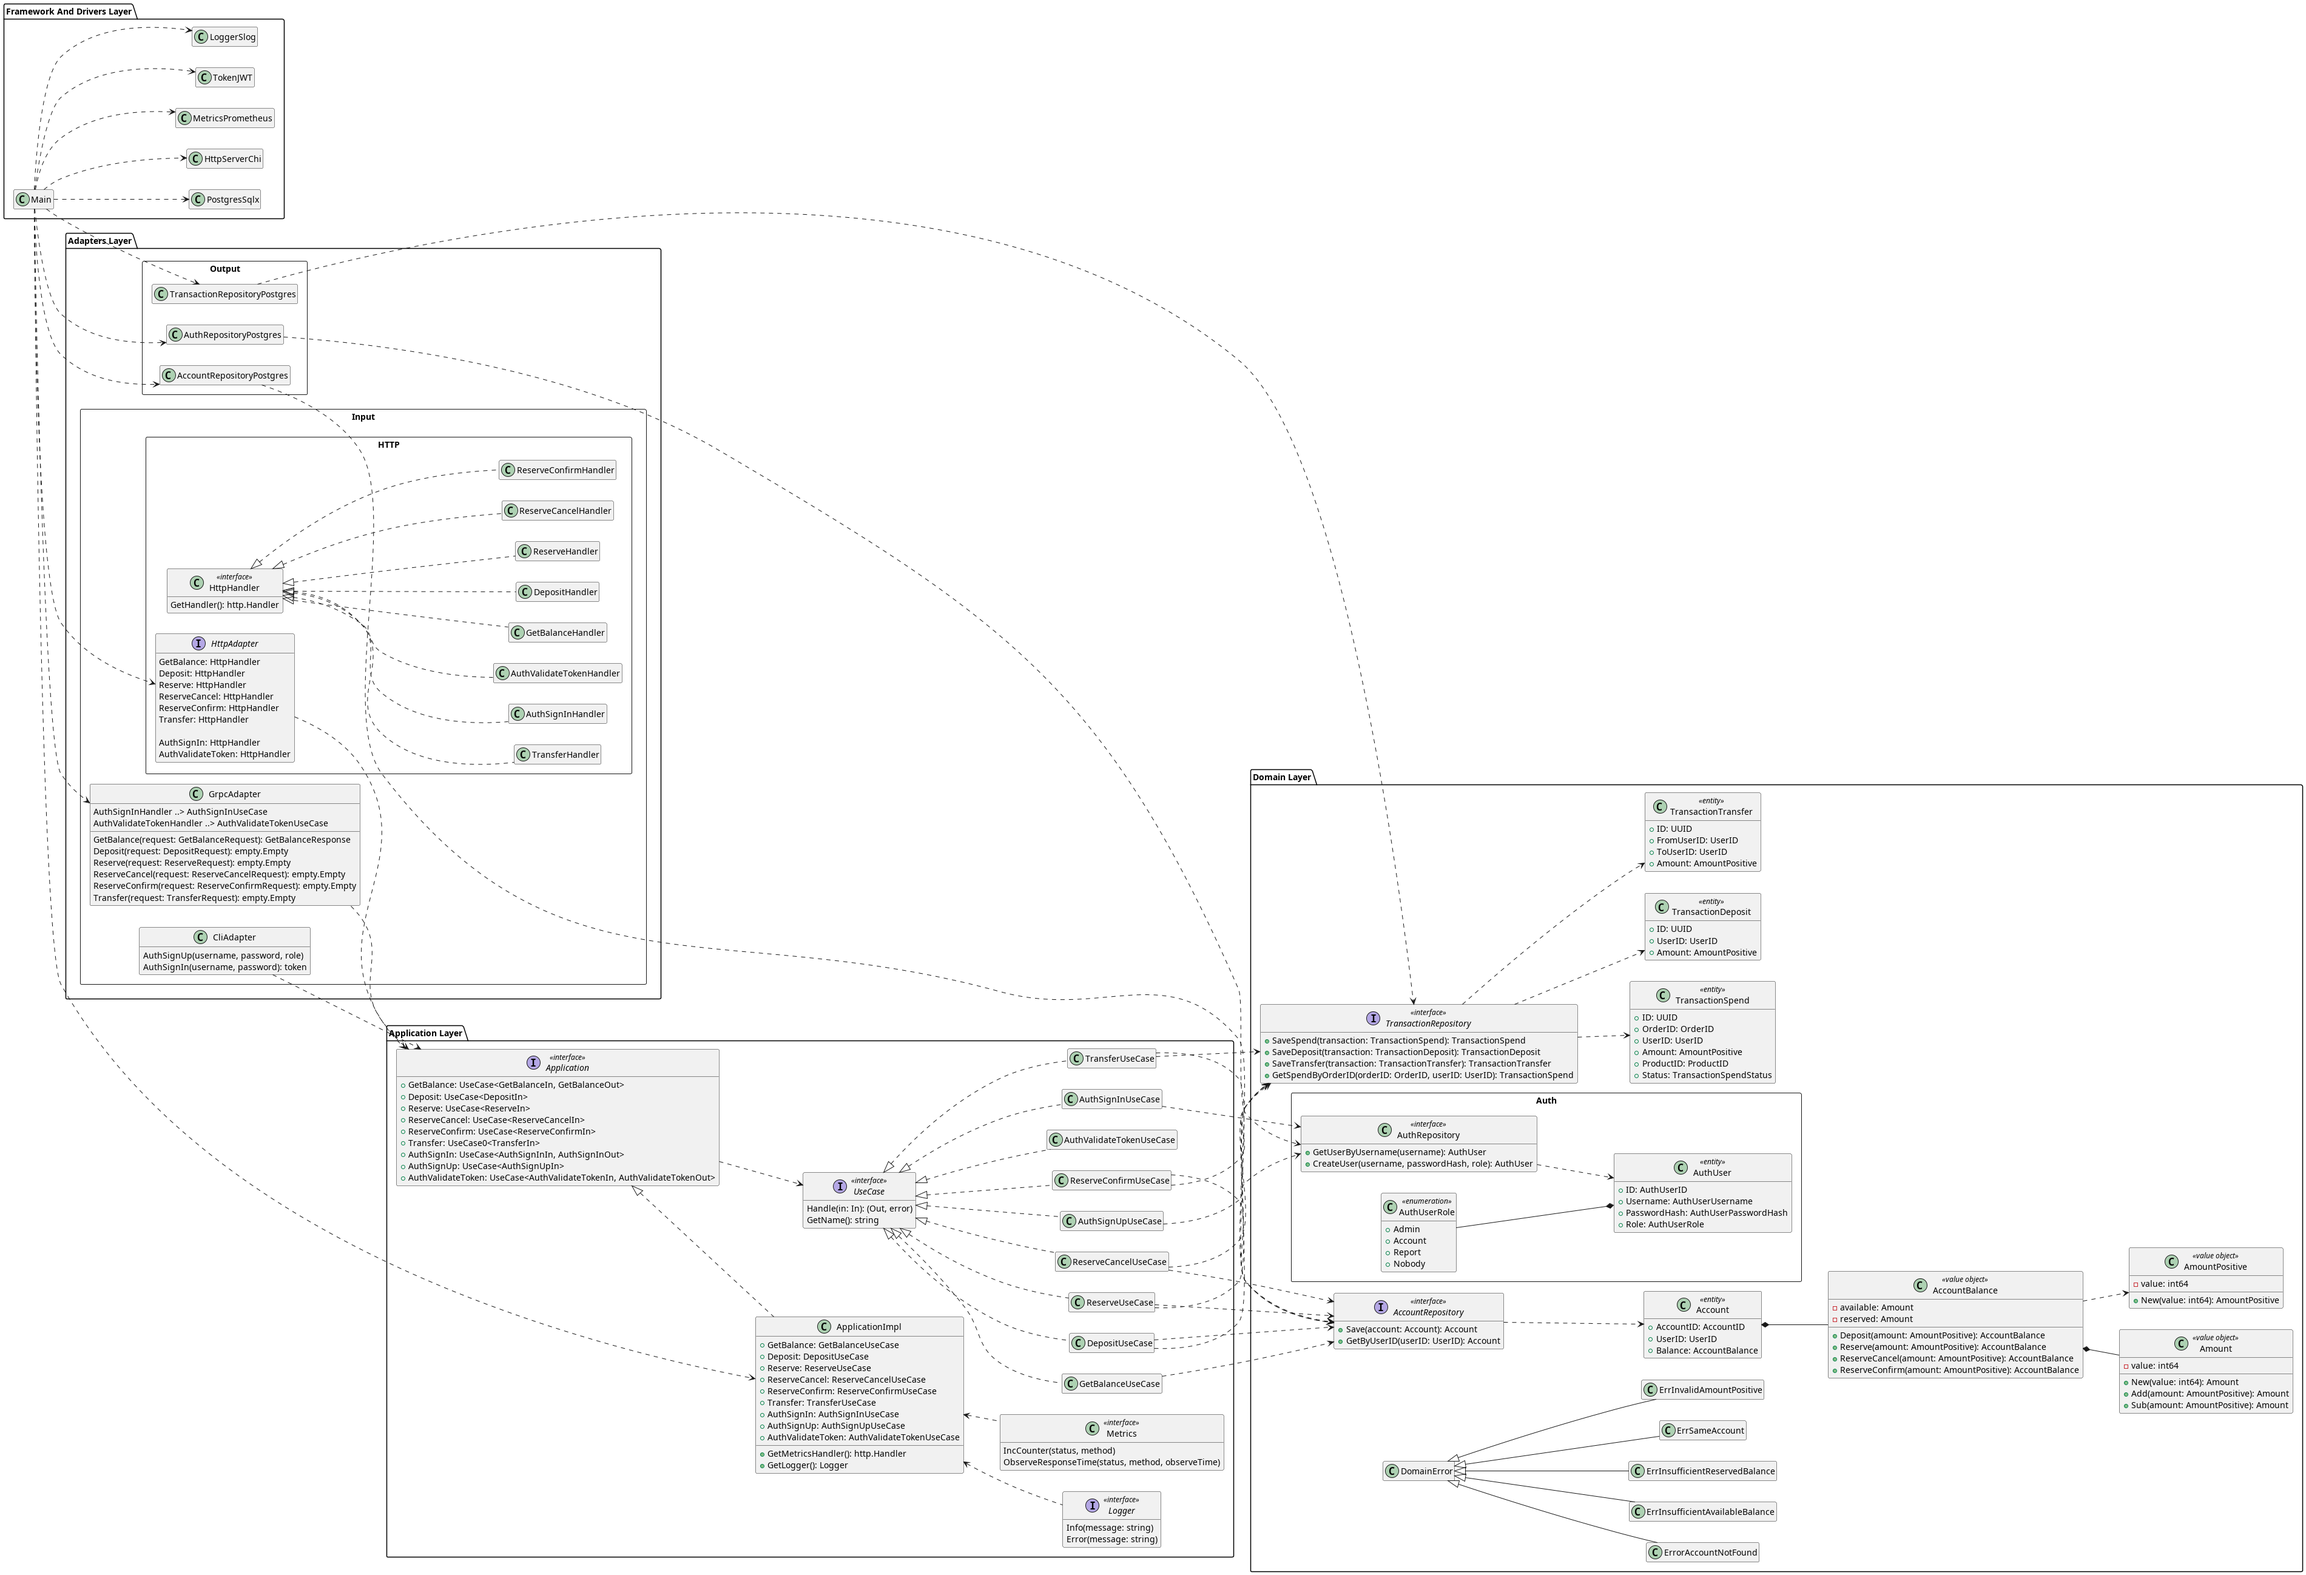
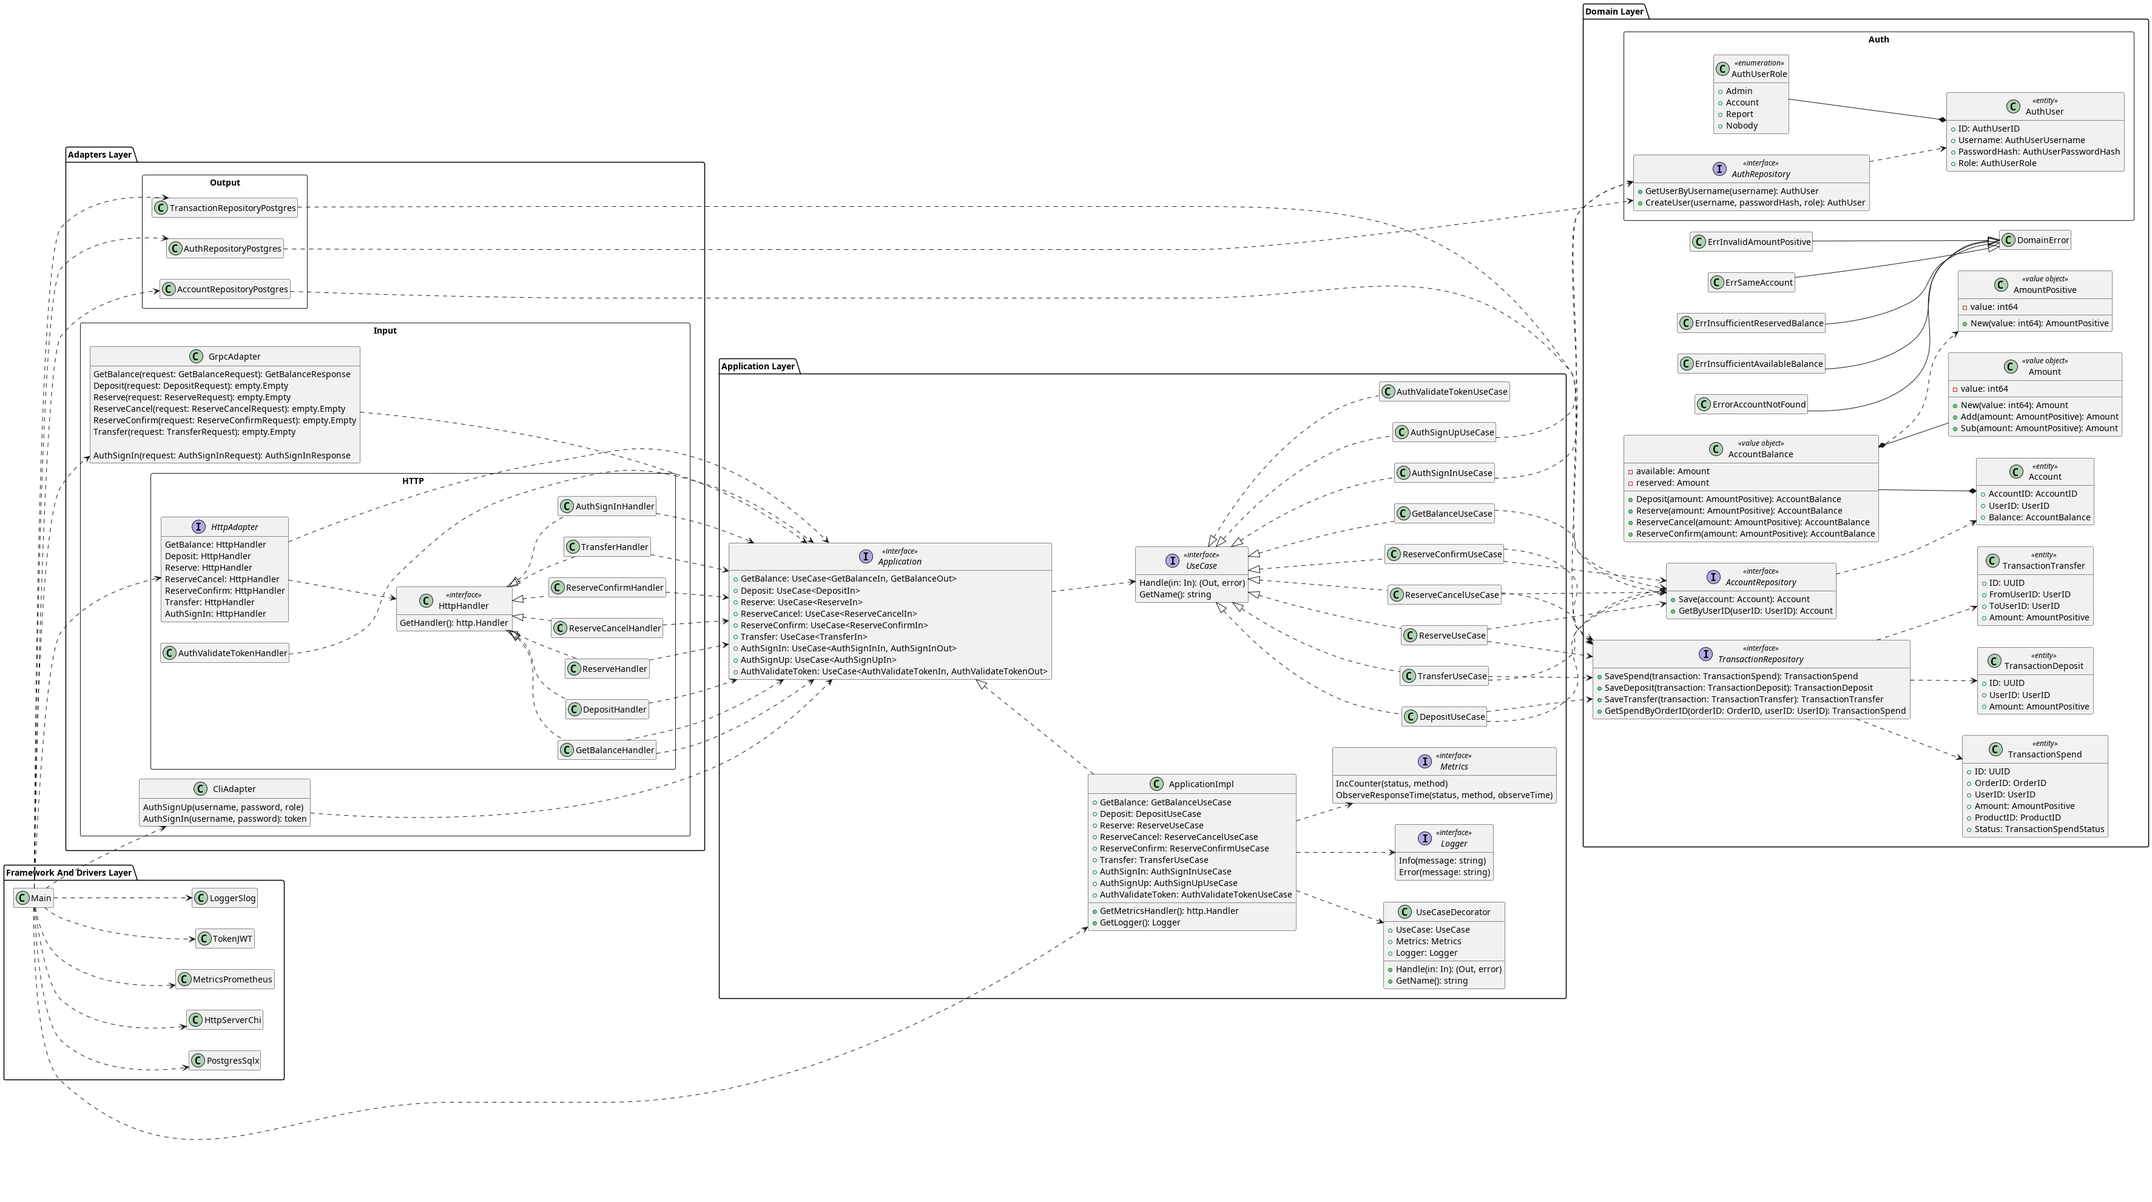
docs: обновить README, добавить описание слоистой гексагональной архитектуры и улучшить диаграммы

diff --git a/README.md b/README.md
@@ -17,9 +17,8 @@ https://github.com/avito-tech/internship_backend_2022
 - интеграционные тесты через dockertest
 - утилита для бенчмарка
 
-минусы
-- openapi спецификация генерируется при помощи swaggo из аннотаций. Лучше было бы 
-- Сущности авторизации хранятся в доменной логике, лучше было бы вынести их в слой application
+Что лучше было бы сделать иначе:
+- openapi спецификация генерируется при помощи swaggo из аннотаций. Лучше было бы генерировать сервер и клиент из спецификации, а не наоборот.
 
 ## Архитектура
 
@@ -29,12 +28,151 @@ https://github.com/avito-tech/internship_backend_2022
 
 Более детальная диаграмма архитектуры: [doc/diagram.png](doc/diagram.png)
 
+Использована слоистая гексагональная архитектура из четырех слоев:
+
+- доменная логика
+- приложение
+- адаптеры
+- инфраструктура
+
+### Доменная логика
+
+* [/internal/balance/domain](/internal/balance/domain)
+
+Ядром является доменная логика, выполненная в технике DDD. Для надежности все доменные типы создаются при помощи конструкторов, которые проверяют соотвествие значений бизнес-правилам. Например: баланс пользователя не может быть отрицательным, и для него введен отдельный тип `Amount`, значение которого является приватным и доступно для инициации лишь в рамках доменной логики, а его изменение только через методы, проверяющие валидность диапазона значений [0..math.MaxInt64]. 
+
+```go
+// Неотрициательное кол-во копеек
+type Amount struct {
+	amount int64
+}
+
+func (a Amount) Add(b AmountPositive) (Amount, error) {
+    // ...
+}
+
+func (a Amount) Sub(b AmountPositive) (Amount, error) {
+    // ...
+}
+```
+
+Баланс пользователя представлен value-object типом `AccountBalance`, для которого также реализован ряд методов, реализующих перемещение средств между доступным и резервированным балансами, и возвращающих доменную ошибку при попытке некорректной операции.
+
+```go
+type AccountBalance struct {
+    available amount.Amount
+	reserved  amount.Amount
+}
+
+func (ac AccountBalance) Deposit(a amount.AmountPositive) (AccountBalance, error) {
+    // ...
+}
+func (ac AccountBalance) Reserve(a amount.AmountPositive) (AccountBalance, error) {
+    // ...
+}
+func (ac AccountBalance) Withdraw(a amount.AmountPositive) (AccountBalance, error) {
+    // ...
+}
+// ...
+```
+
+Баланс пользователя является частью сущности Account, для которой описаны методы, изменяющие её состояние через pointer receiver, и соответствующие требуемым юзкейсам: Deposit, Reserve, ReserveCancel, ReserveConfirm, Transfer.
+
+Транзакции представлены тремя сущностями: TransactionDeposit (зачисление на счет), TransactionSpend (оплата продукта) и TransactionTransfer (перевод между пользователями). Статус операции оплаты продукта определяется наличием транзакции Spend со статусом, отличным от Canceled: Reserved, если деньги зарезервированы; Confirmed, если продукт оплачен. 
+
+В доменной зоне также описаны интерфейсы репозиториев для каждой из сущностей: Account и Transactions.
+
+### Приложение
+
+* [/internal/balance/app](/internal/balance/app)
+* [/internal/balance/app_impl](/internal/balance/app_impl)
+
+В этом слое реализованы сценарии использования (use-cases). Сценарий должен реализовывать один из двух интерфейсов:
+
+```go
+// сценарий не возвращает результат, например Deposit
+type UseCase0[In any] interface {
+	Handle(ctx context.Context, in In) error
+    // имя сценария используется для логирования, метрик и для разграничения прав 
+    // доступа пользователей микросервиса
+	GetName() string
+}
+
+// сценарий возвращает результат, например GetBalance
+type UseCase1[In any, Out any] interface {
+	Handle(ctx context.Context, in In) (Out, error)
+	GetName() string
+}
+```
+
+Сценарий характеризуется набором зависимостей, которые передаются конструктору `New`, типом запроса `In` и опциональным типом результата `Out`. 
+
+Так как сценарию может потребоваться изменение как баланса пользователя, так и списка его транзакций, необходимо предусмотреть атомарность изменения в двух репозиториях. Для этого применятся библиотека [go-transaction-manager](github.com/avito-tech/go-transaction-manager), которая позволяет сделать это при помощи высокоуровненего стабильного API, сохраняющего слой приложения от низкоуровневых деталей реализации репозиториев. 
+
+Для этого сценарию, использующему репозиторий передается в качестве зависимостей объект типа `trm.Manager`
+
+```go
+// Manager manages a transaction from Begin to Commit or Rollback.
+type Manager interface {
+	// Do processes a transaction inside a closure.
+	Do(context.Context, func(ctx context.Context) error) error
+	// DoWithSettings processes a transaction inside a closure with custom trm.Settings.
+	DoWithSettings(context.Context, Settings, func(ctx context.Context) error) error
+}
+```
+
+Это также позволит использвать данный сценарий в других сценариях в рамках одной транзакции ([Статья на хабре](https://habr.com/ru/companies/avito/articles/727168/)), если это понадобится.
+
+#### Декораторы use-case
+
+То, что все сценарии использования реализуют единый интрефейс, позволяет добавить в архитектуру слоя приложения такую функцию, как декораторы, которые по функциональности представляют собой аналог middleware в других областях.
+
+Например, декоратор логирования:
+
+```go
+type Decorator0Logging[T any] struct {
+	base   UseCase0Handler[T]
+	logger logging.Logger
+}
+
+func (d *Decorator0Logging[T]) Handle(ctx context.Context, in T) (err error) {
+	defer func() {
+		if err != nil {
+			d.logger.Error(d.base.GetName(), "use_case", d.base.GetName(), "error", err)
+		}
+	}()
+	d.logger.Info(d.base.GetName(), "use_case", d.base.GetName())
+	return d.base.Handle(ctx, in)
+}
+```
+
+В данном микросервисе реализованы декораторы: логирование, метрики, panic-recover.
+
 ## Запуск
 
-## Описание
+### Тесты
 
-Слои
-- домен
-- app
-- адаптеры
-- инфрастуктура
+```bash
+make cover
+
+make cover-html
+```
+
+## Использованные инструменты
+
+- [go-transaction-manager](github.com/avito-tech/go-transaction-manager) для кросс-репозиторных транзакций
+- [chi]()
+- [sqlx](https://github.com/jmoiron/sqlx) обертка для упрощения работы с базой данных
+- [pgx](https://github.com/jackc/pgx) для работы с базой данных
+- [cobra](https://github.com/spf13/cobra) для cli инструмента
+- [swaggo](https://github.com/swaggo/swag) генерация openapi спецификации из аннотаций
+- [openapitools/openapi-generator](https://github.com/openapitools/openapi-generator) генерация http-клиента для утилиты бенчмарка
+- [testify](https://github.com/stretchr/testify) для тестирования
+- [dockertest](https://github.com/ory/dockertest) интеграционные тесты с базой данных
+- [reflex](https://github.com/cespare/reflex) для перекомпиляции приложения при изменении кода
+- [go-ergo-handler](https://github.com/nktknshn/go-ergo-handler) для создания http-хэндлеров
+- [docker](https://www.docker.com/) Docker
+- [prometheus](https://prometheus.io/) для сбора метрик
+<!-- - [opentracing](https://opentracing.io/) для трассировки -->
+- [grafana](https://grafana.com/) для визуализации метрик и логов
+- [loki](https://grafana.com/oss/loki/) для сбора логов

diff --git a/TODO.md b/TODO.md
@@ -1,5 +1,6 @@
 TODO
 
+- [ ] select for update
 - [ ] pprof
 - [ ] additional data for metrics decorator (like adapter name)
 - [ ] revenue export file
